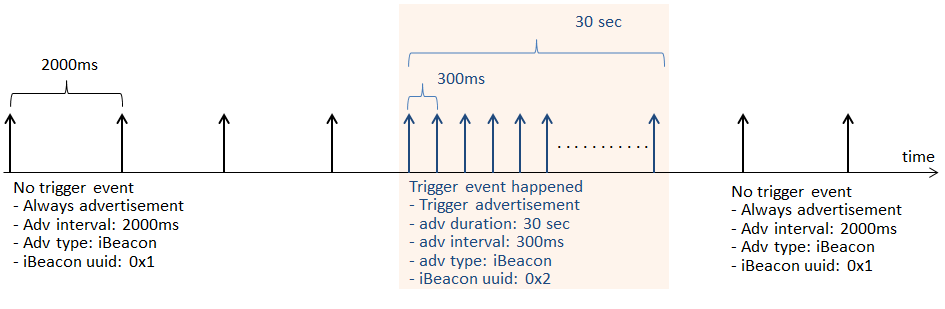
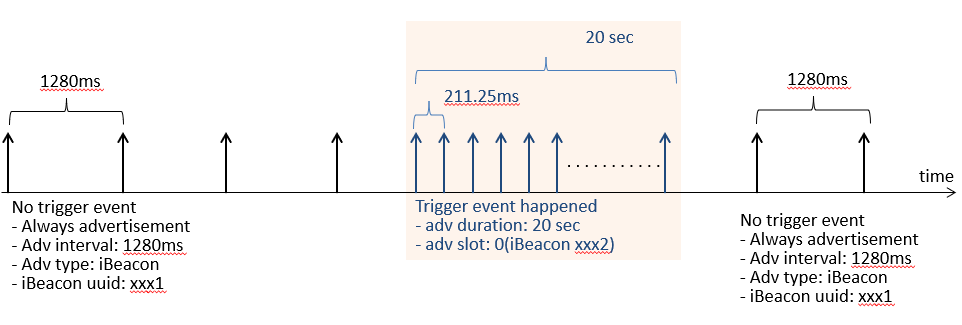
update help

diff --git a/README.md b/README.md
@@ -7,10 +7,10 @@ With this SDK, you can scan and configure the KBeacon device. The SDK include fo
 
 * KBeacon: An instance of a KBeacon device, KBeaconsMgr creates an instance of KBeacon while it found a physical device. Each KBeacon instance has three properties: KBAdvPacketHandler, KBAuthHandler, KBCfgHandler.
 * KBAdvPacketHandler: parsing advertisement packet. This attribute is valid during the scan phase.  
-*	KBAuthHandler: Responsible for the authentication operation with the KBeacon device after the connection is established.  
-*	KBCfgHandler：Responsible for configuring parameters related to KBeacon devices.  
+* KBAuthHandler: Responsible for the authentication operation with the KBeacon device after the connection is established.  
+* KBCfgHandler：Responsible for configuring parameters related to KBeacon devices.  
 * DFU Library: Responsible for KBeacon firmware update.
-![avatar](https://github.com/kkmhogen/KBeaconProDemo_Android/blob/master/kbeacon_class_arc.png?raw=true)
+![avatar](https://github.com/kkmhogen/KBeaconProDemo_Android/blob/main/kbeacon_class_arc.png?raw=true)
 
 **Scanning Stage**
 
@@ -361,25 +361,9 @@ After app connects to device success, the app can update parameters of device.
 
 ##### 4.3.3.1 Update common parameters
 The app can modify the basic parameters of KBeacon through the KBCfgCommon class. The KBCfgCommon has follow parameters:
-
 * name: device name, the device name must <= 18 character
-
-* advType: beacon type, can be setting to iBeacon, KSesnor, Eddy TLM/UID/ etc.,
-
-* advPeriod: advertisement period, the value can be set to 100~10000ms
-
-* txPower: advertisement TX power, unit is dBm.
-
-* autoAdvAfterPowerOn: if autoAdvAfterPowerOn was setting to true, the beacon always advertisement if it has battery. If this value was setting to false, the beacon will power off if long press button for 5 seconds.
-
-* tlmAdvInterval: eddystone TLM advertisement interval. The default value is 10. The KBeacon will send 1 TLM advertisement every 10 advertisement packets
-
+* alwaysPowerOn: if alwaysPowerOn was setting to true, the beacon will not allowed turn off by long press button.
 * refPower1Meters: the rx power at 1 meters
-
-* advConnectable: is beacon advertisement can be connectable.  
-  **Warning:**   
-   if the app set the KBeacon to un-connectable, the app cannot connect to it again if it does not has button. If the device has button, the device can enter connect-able advertisement for 60 seconds when click on the button
-
 * password: device password, the password length must >= 8 character and <= 16 character.  
  **Warning:**   
  Be sure to remember the new password, you won’t be able to connect to the device if you forget the new password.
@@ -432,13 +416,25 @@ public void updateBeaconCommonPara()
 ```
 
 ##### 4.3.3.2 Update iBeacon parameters
-The app can modify the basic parameters of KBeacon through the KBCfgIBeacon class. The KBCfgIBeacon has follow parameters:
-uuid: iBeacon uuid
-majorID: iBeacon major ID
-minorID: iBeacon minor ID
-please make sure the KBeacon advertisement type was set to iBeacon.
+For all broadcast messages, such as iBeacon or Eddystone protocols, they include the following public parameters：
+* slotIndex: the advertisement instance No.
+* txPower: the tx power of the advertisement packet.
+* advType: advertisement type, can be setting to iBeacon, KSesnor, Eddy TLM/UID/ etc.,
+* advPeriod: this slot advertisement period, the value can be set to 100~20000ms
+* advMode : advertisement mode.
+* advTriggerOnly : When it is true, it means that this slot is not broadcast by default, it is only start broadcast when the Trigger event occurs.
+* advConnectable: is this slot advertisement can be connectable.  
+ **Warning:**   
+If all slot was setting to un-connectable, the app cannot connect to it again unless: 1. The KBeacon button was pressed while button trigger are not enable. or 2. The device was power on again and the device will be connectable in first 30 seconds after power on.
 
-example: set the KBeacon to broadcasting iBeacon packet
+
+ **iBeacon parameters:**  
+The app can enable iBeacon broadcast through the KBCfgIBeacon class. The KBCfgIBeacon has follow parameters:  
+* uuid:  iBeacon UUID
+* majorID: iBeacon major ID
+* minorID: iBeacon minor ID
+
+example: set the slot0 to broadcasting iBeacon packet
 ```Java
 void updateKBeaconToIBeacon()
 {
@@ -484,7 +480,7 @@ void updateKBeaconToIBeacon()
 }
 ```
 
-example: update KBeacon to hybrid iBeacon/EddyTLM.  
+example: set the slot0/slot1 to hybrid iBeacon/EddyTLM.  
 Sometimes we need KBeacon broadcasting both iBeacon and TLM packet (battery level, Temperature, power on times
 ```Java
 void updateKBeaconToIBeaconAndTLM()
@@ -720,7 +716,7 @@ void updateModifyParaToDevice()
   &nbsp;&nbsp; 1. Setting slot 0 to iBeacon advertisement(adv period = 211.25ms, trigger only adv = true).  
   &nbsp;&nbsp; 2. Add a single button trigger(Trigger No = 0, Trigger type = Btn single click, Action = advertisement, Adv slot = 0, Adv duration = 20).  
 	&nbsp;&nbsp;  
-	![avatar](https://github.com/kkmhogen/KBeaconProDemo_Android/blob/master/only_adv_when_trigger.png?raw=true)
+	![avatar](https://github.com/kkmhogen/KBeaconProDemo_Android/blob/main/only_adv_when_trigger.png?raw=true)
 
  Example 2:  Trigger advertisment
 	&nbsp;For some scenario, we need to continuously monitor the KBeacon to ensure that the device was alive. The device usually broadcasting iBeacon1(UUID=xxx1) , and we want to trigger the broadcast iBeacon2(uuid=xxx2) when the button is pressed.   
@@ -729,7 +725,7 @@ void updateModifyParaToDevice()
 	&nbsp;We set an larger advertisement interval during alive advertisement and a short advertisement interval when trigger event happened, so we can achieve a balance between power consumption and triggers advertisement be easily detected.  
   &nbsp;&nbsp; 3. Add a single button trigger(Trigger No = 0, Trigger type = Btn single click, Action = advertisement, Adv slot = 1, Adv duration = 20).  
 	 &nbsp;&nbsp;
- 	![avatar](https://github.com/kkmhogen/KBeaconProDemo_Android/blob/master/always_adv_with_trigger.png?raw=true)
+ 	![avatar](https://github.com/kkmhogen/KBeaconProDemo_Android/blob/main/always_adv_with_trigger.png?raw=true)
 
 
 
@@ -876,6 +872,7 @@ public void enableButtonTriggerEvent2App()
     });
 }
 
+//handle trigger event notify
 public void onNotifyDataReceived(KBeacon beacon, int nEventType, byte[] sensorData)
 {
   //check if Temperature and humidity trigger event
@@ -902,7 +899,7 @@ public void onNotifyDataReceived(KBeacon beacon, int nEventType, byte[] sensorDa
 
 ```
 
-3. The app can disable the button trigger  
+3. The app can disable the button trigger by:  
 ```Java
 //disable button trigger
 public void disableButtonTrigger() {
@@ -1230,7 +1227,7 @@ mSensorDataMsg.readSensorDataInfo(mBeacon,
 ```  
 
   Example2: The app read the temperature and humidity records without moving pointer.
-  The device has 100 records sorted by time, the app want to reading 20 records and start from the No 99. The Kbeacon will send records #99 ~ #90 to app by reverse order.     
+  The device has 100 records sorted by time, the app want to reading 10 records and start from the No 99. The Kbeacon will send records #99 ~ #90 to app by reverse order.     
   If the app does not known the last record no, then the value can set to INVALID_DATA_RECORD_POS.
 ```Java
  mSensorDataMsg.readSensorRecord(mBeacon,
